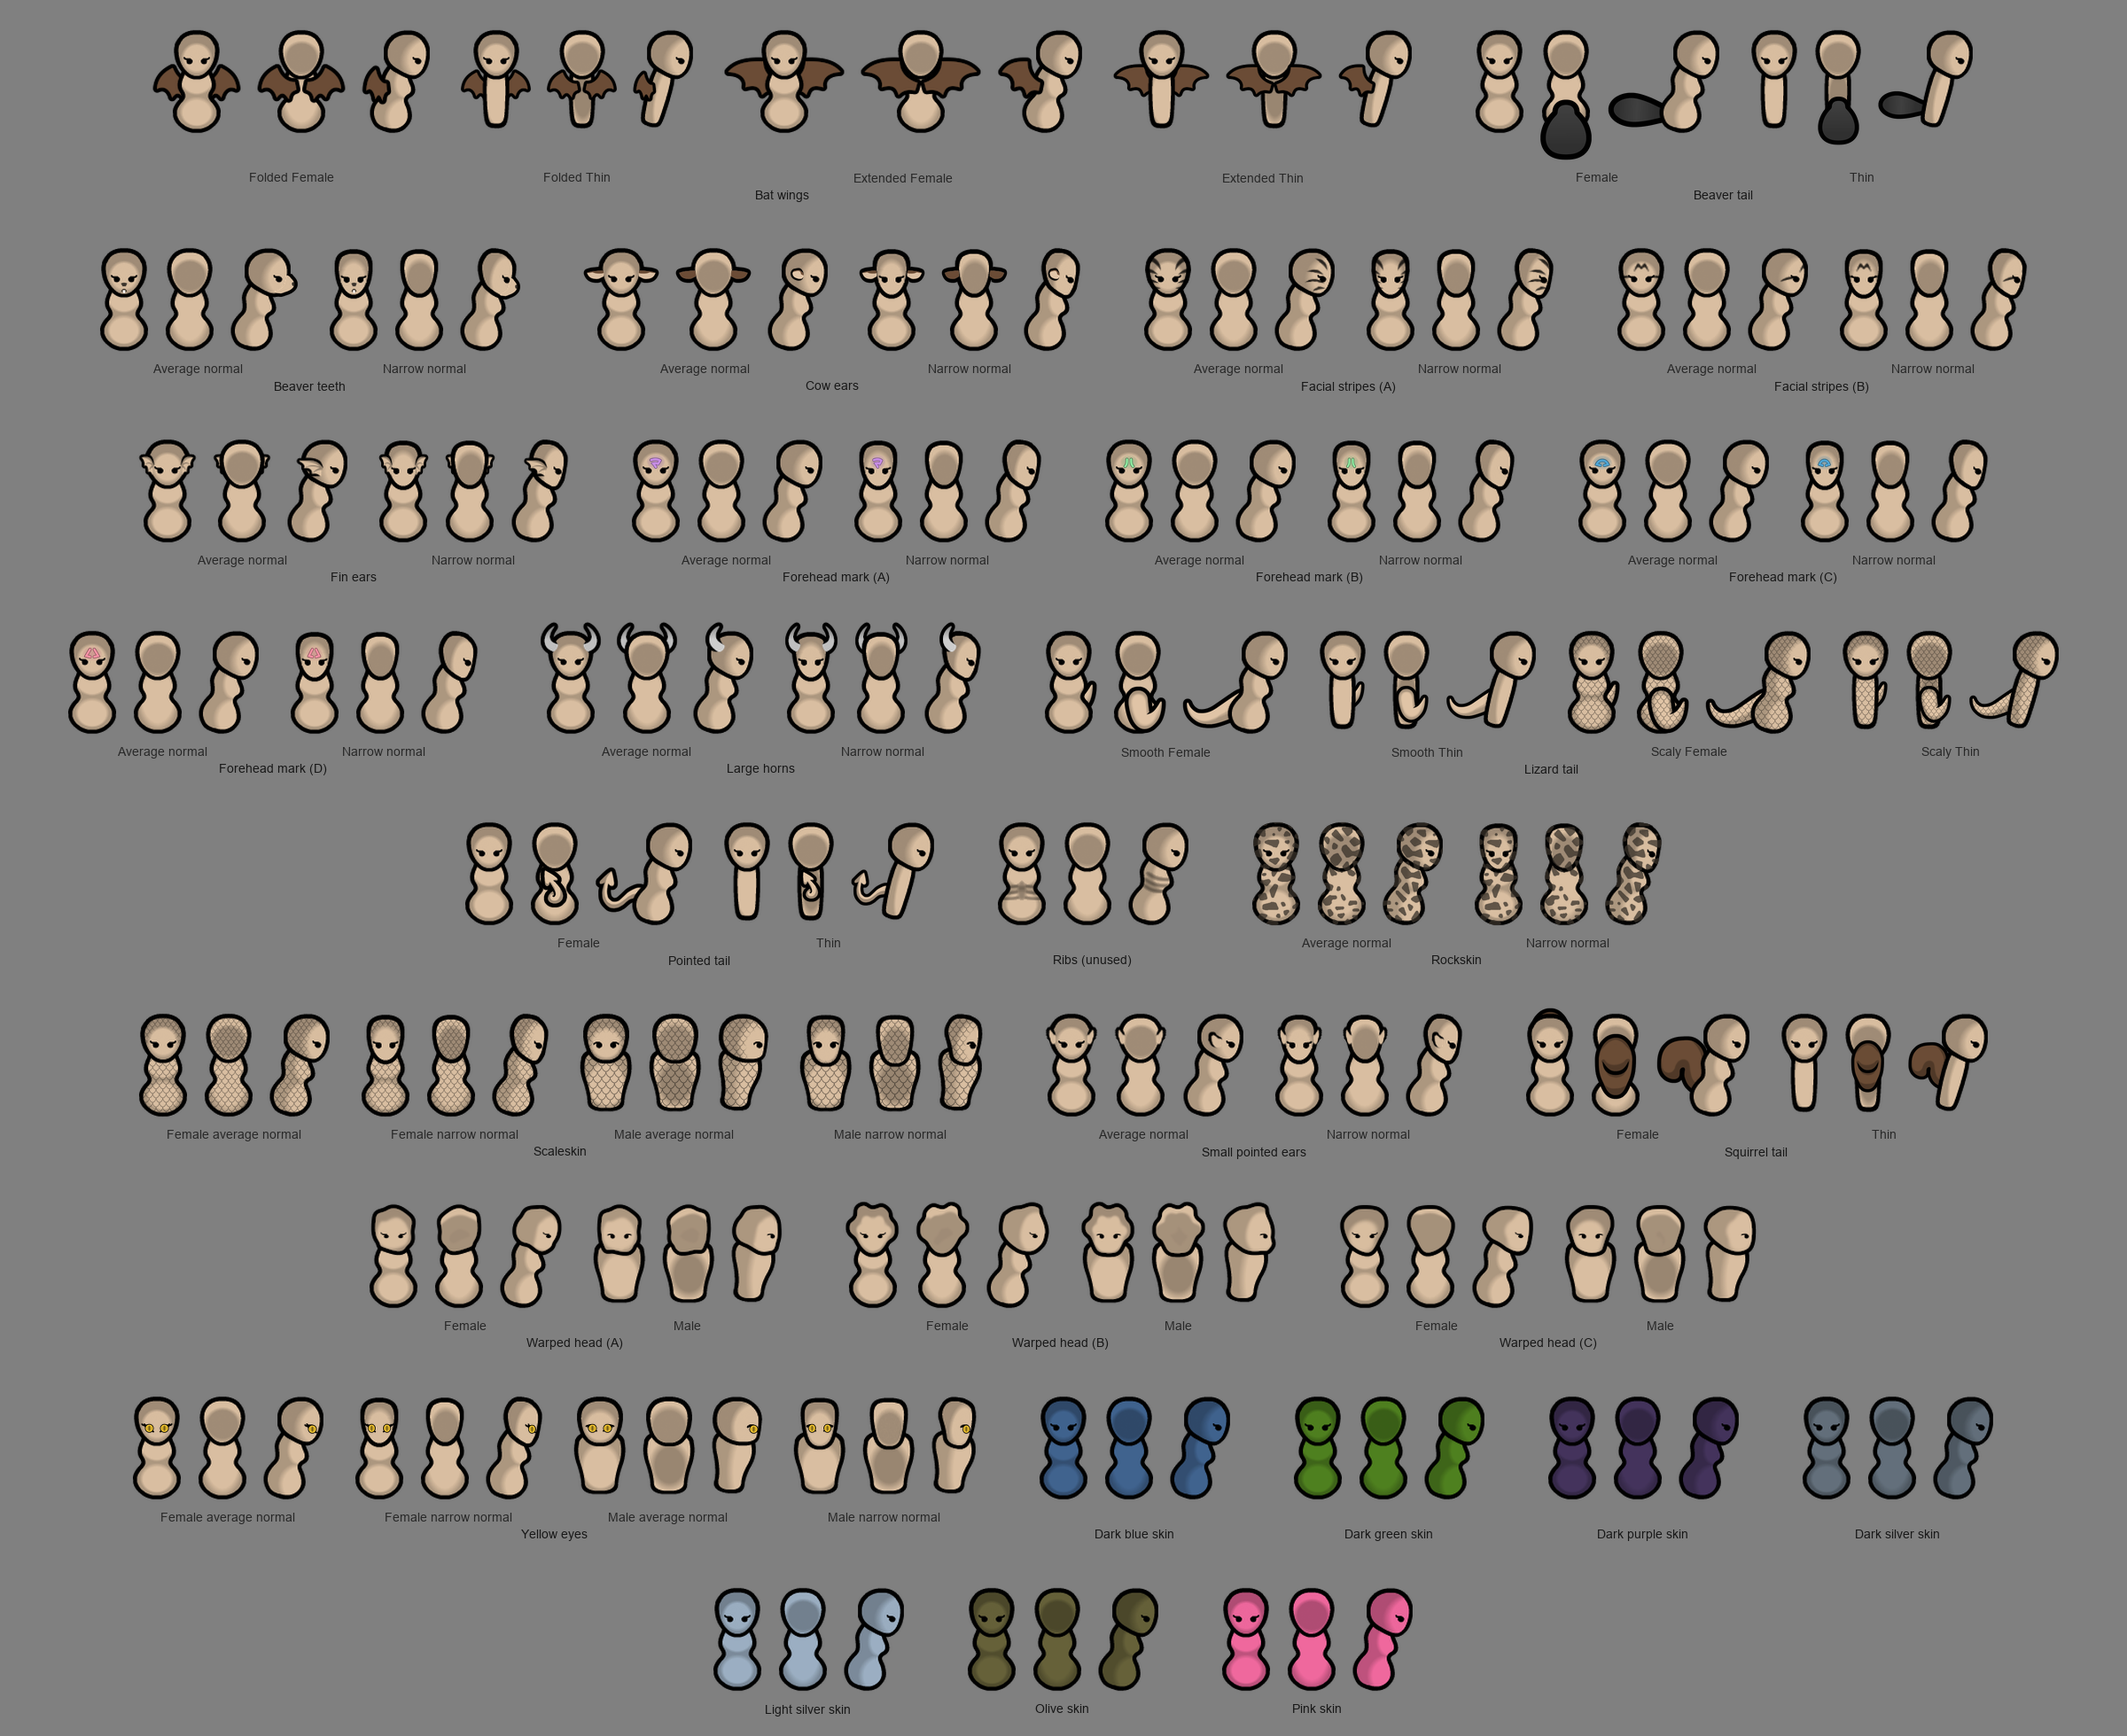
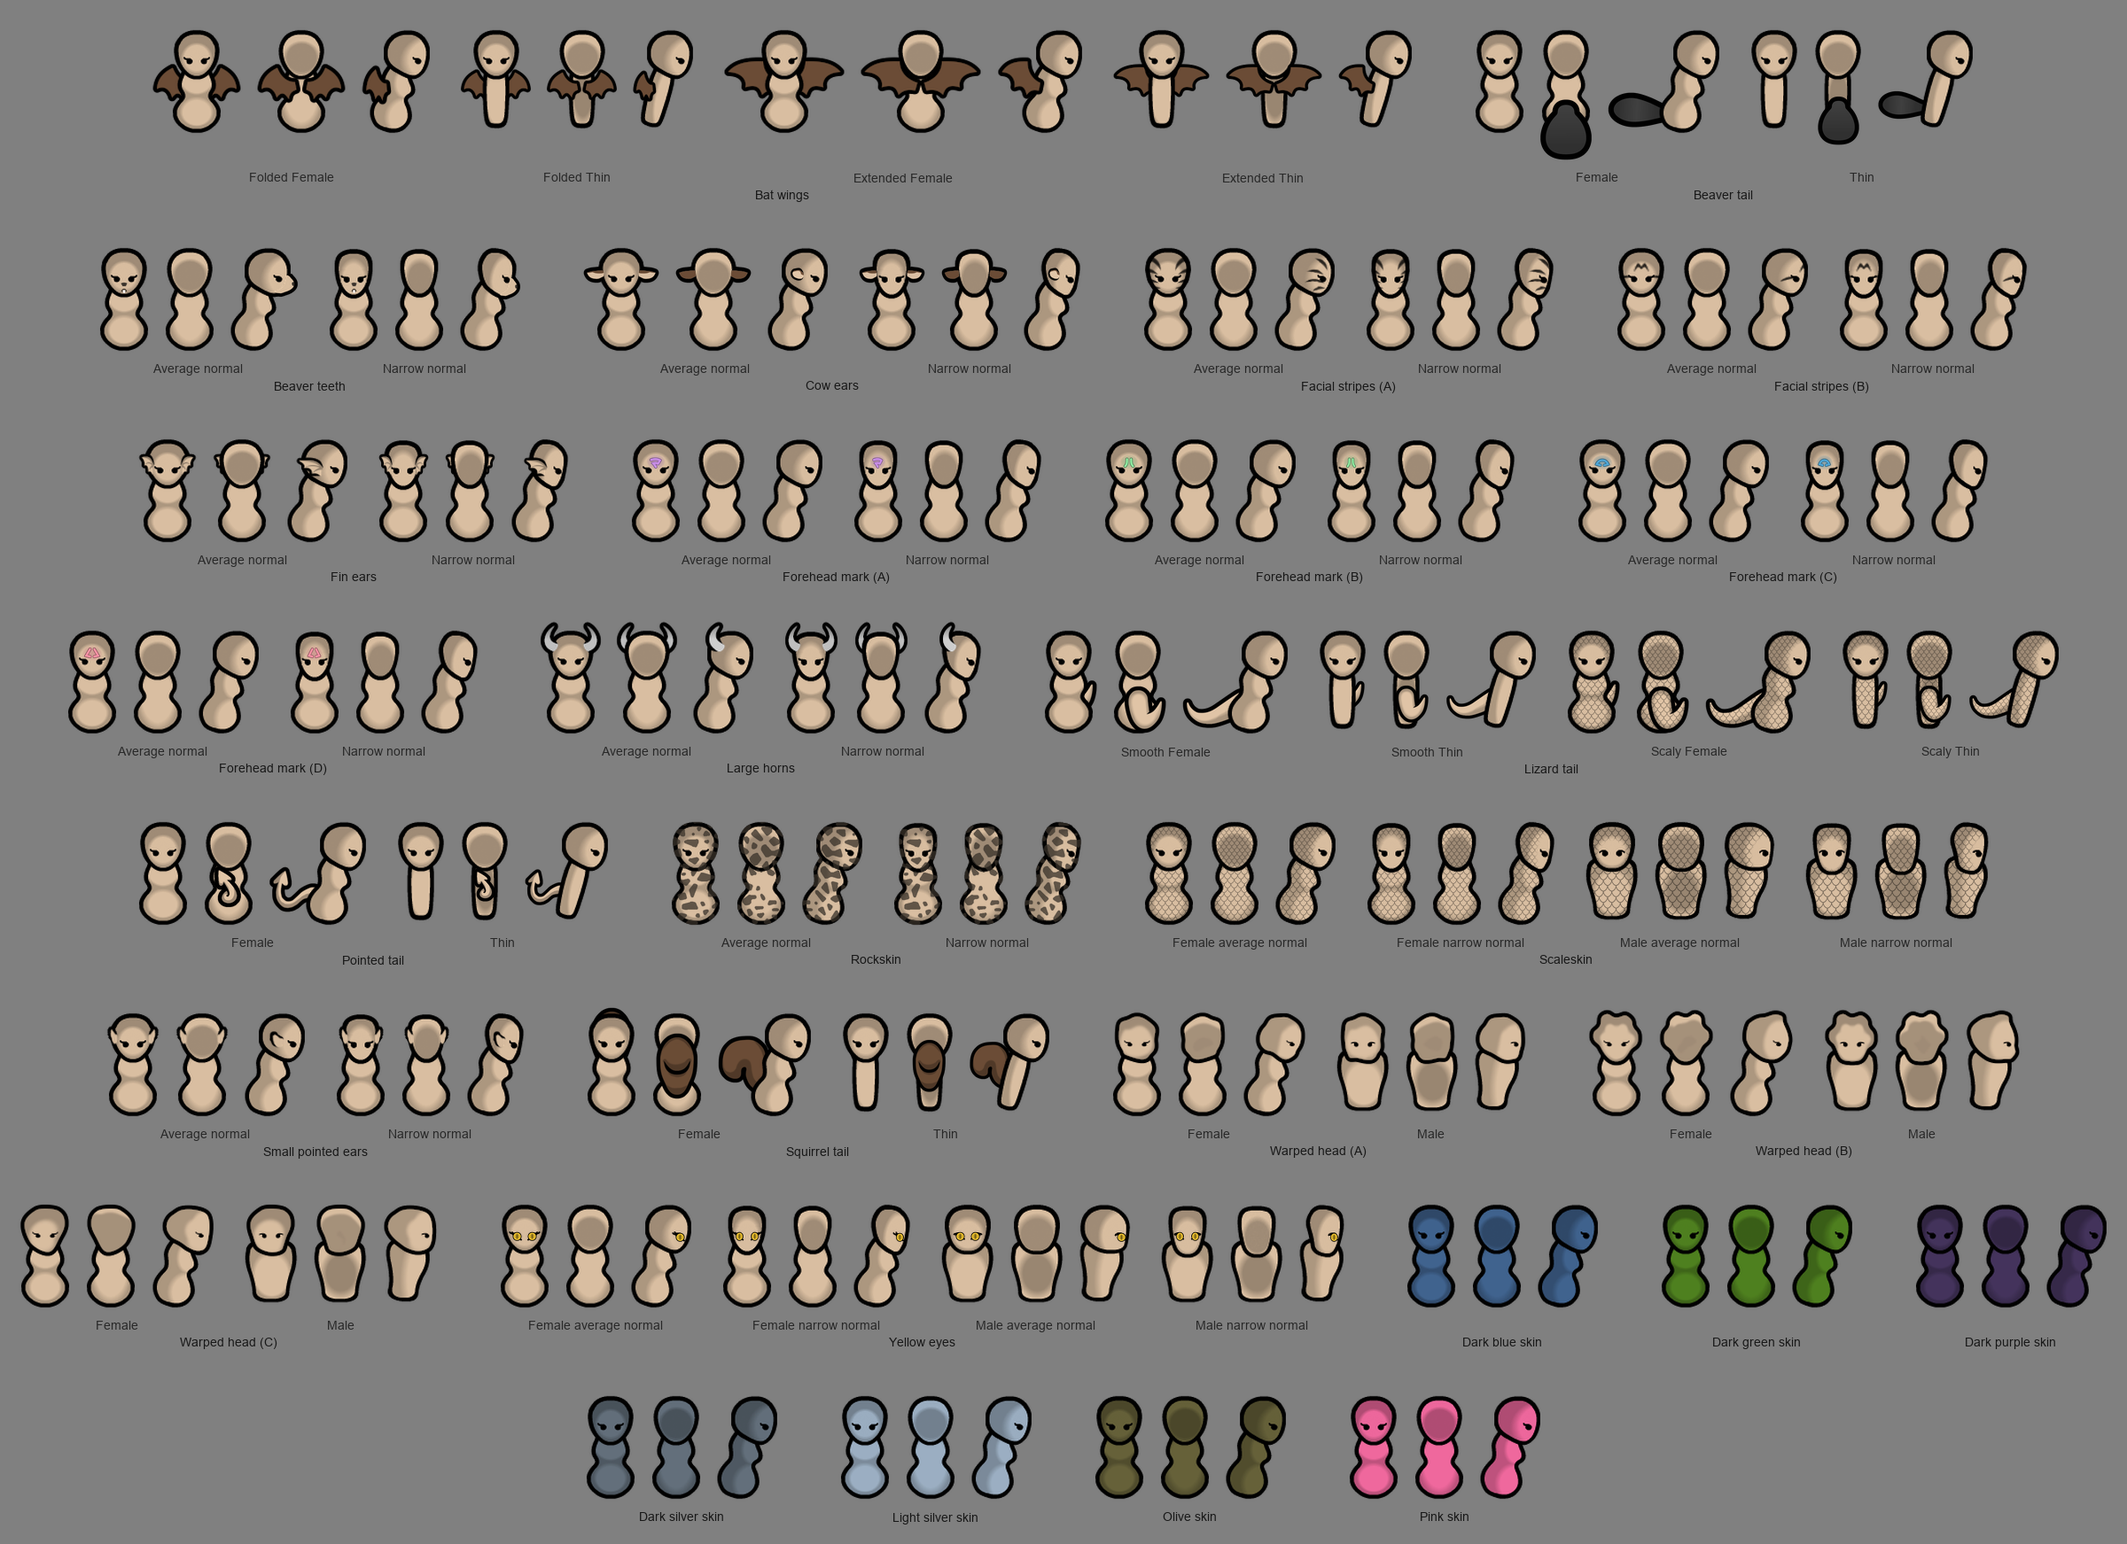
Remove unused ribs art

diff --git a/Art/Codex/compose-pawn-cosmetics.py b/Art/Codex/compose-pawn-cosmetics.py
@@ -322,11 +322,6 @@ def catalog():
         if skin:
             destination.append(Cosmetic(label, skin=color(skin)))
 
-    # This asset is present, but its GeneDef is commented out. Preview it explicitly.
-    ribs = ET.fromstring("""<li><nodeClass>XylXenos.PawnRenderNode_BodyPattern</nodeClass>
-        <parentTagDef>Body</parentTagDef><baseLayer>3</baseLayer>
-        <visibleFacing><li>South</li><li>East</li><li>West</li></visibleFacing></li>""")
-    cosmetics.append(Cosmetic("Ribs (unused)", (Attachment(ribs, HUMANLIKE / "BodyAttachments/Ribs/Ribs"),)))
     groups = variant_groups
     for cosmetic in cosmetics:
         affects_head = any(attachment.properties.findtext("parentTagDef") == "Head"
